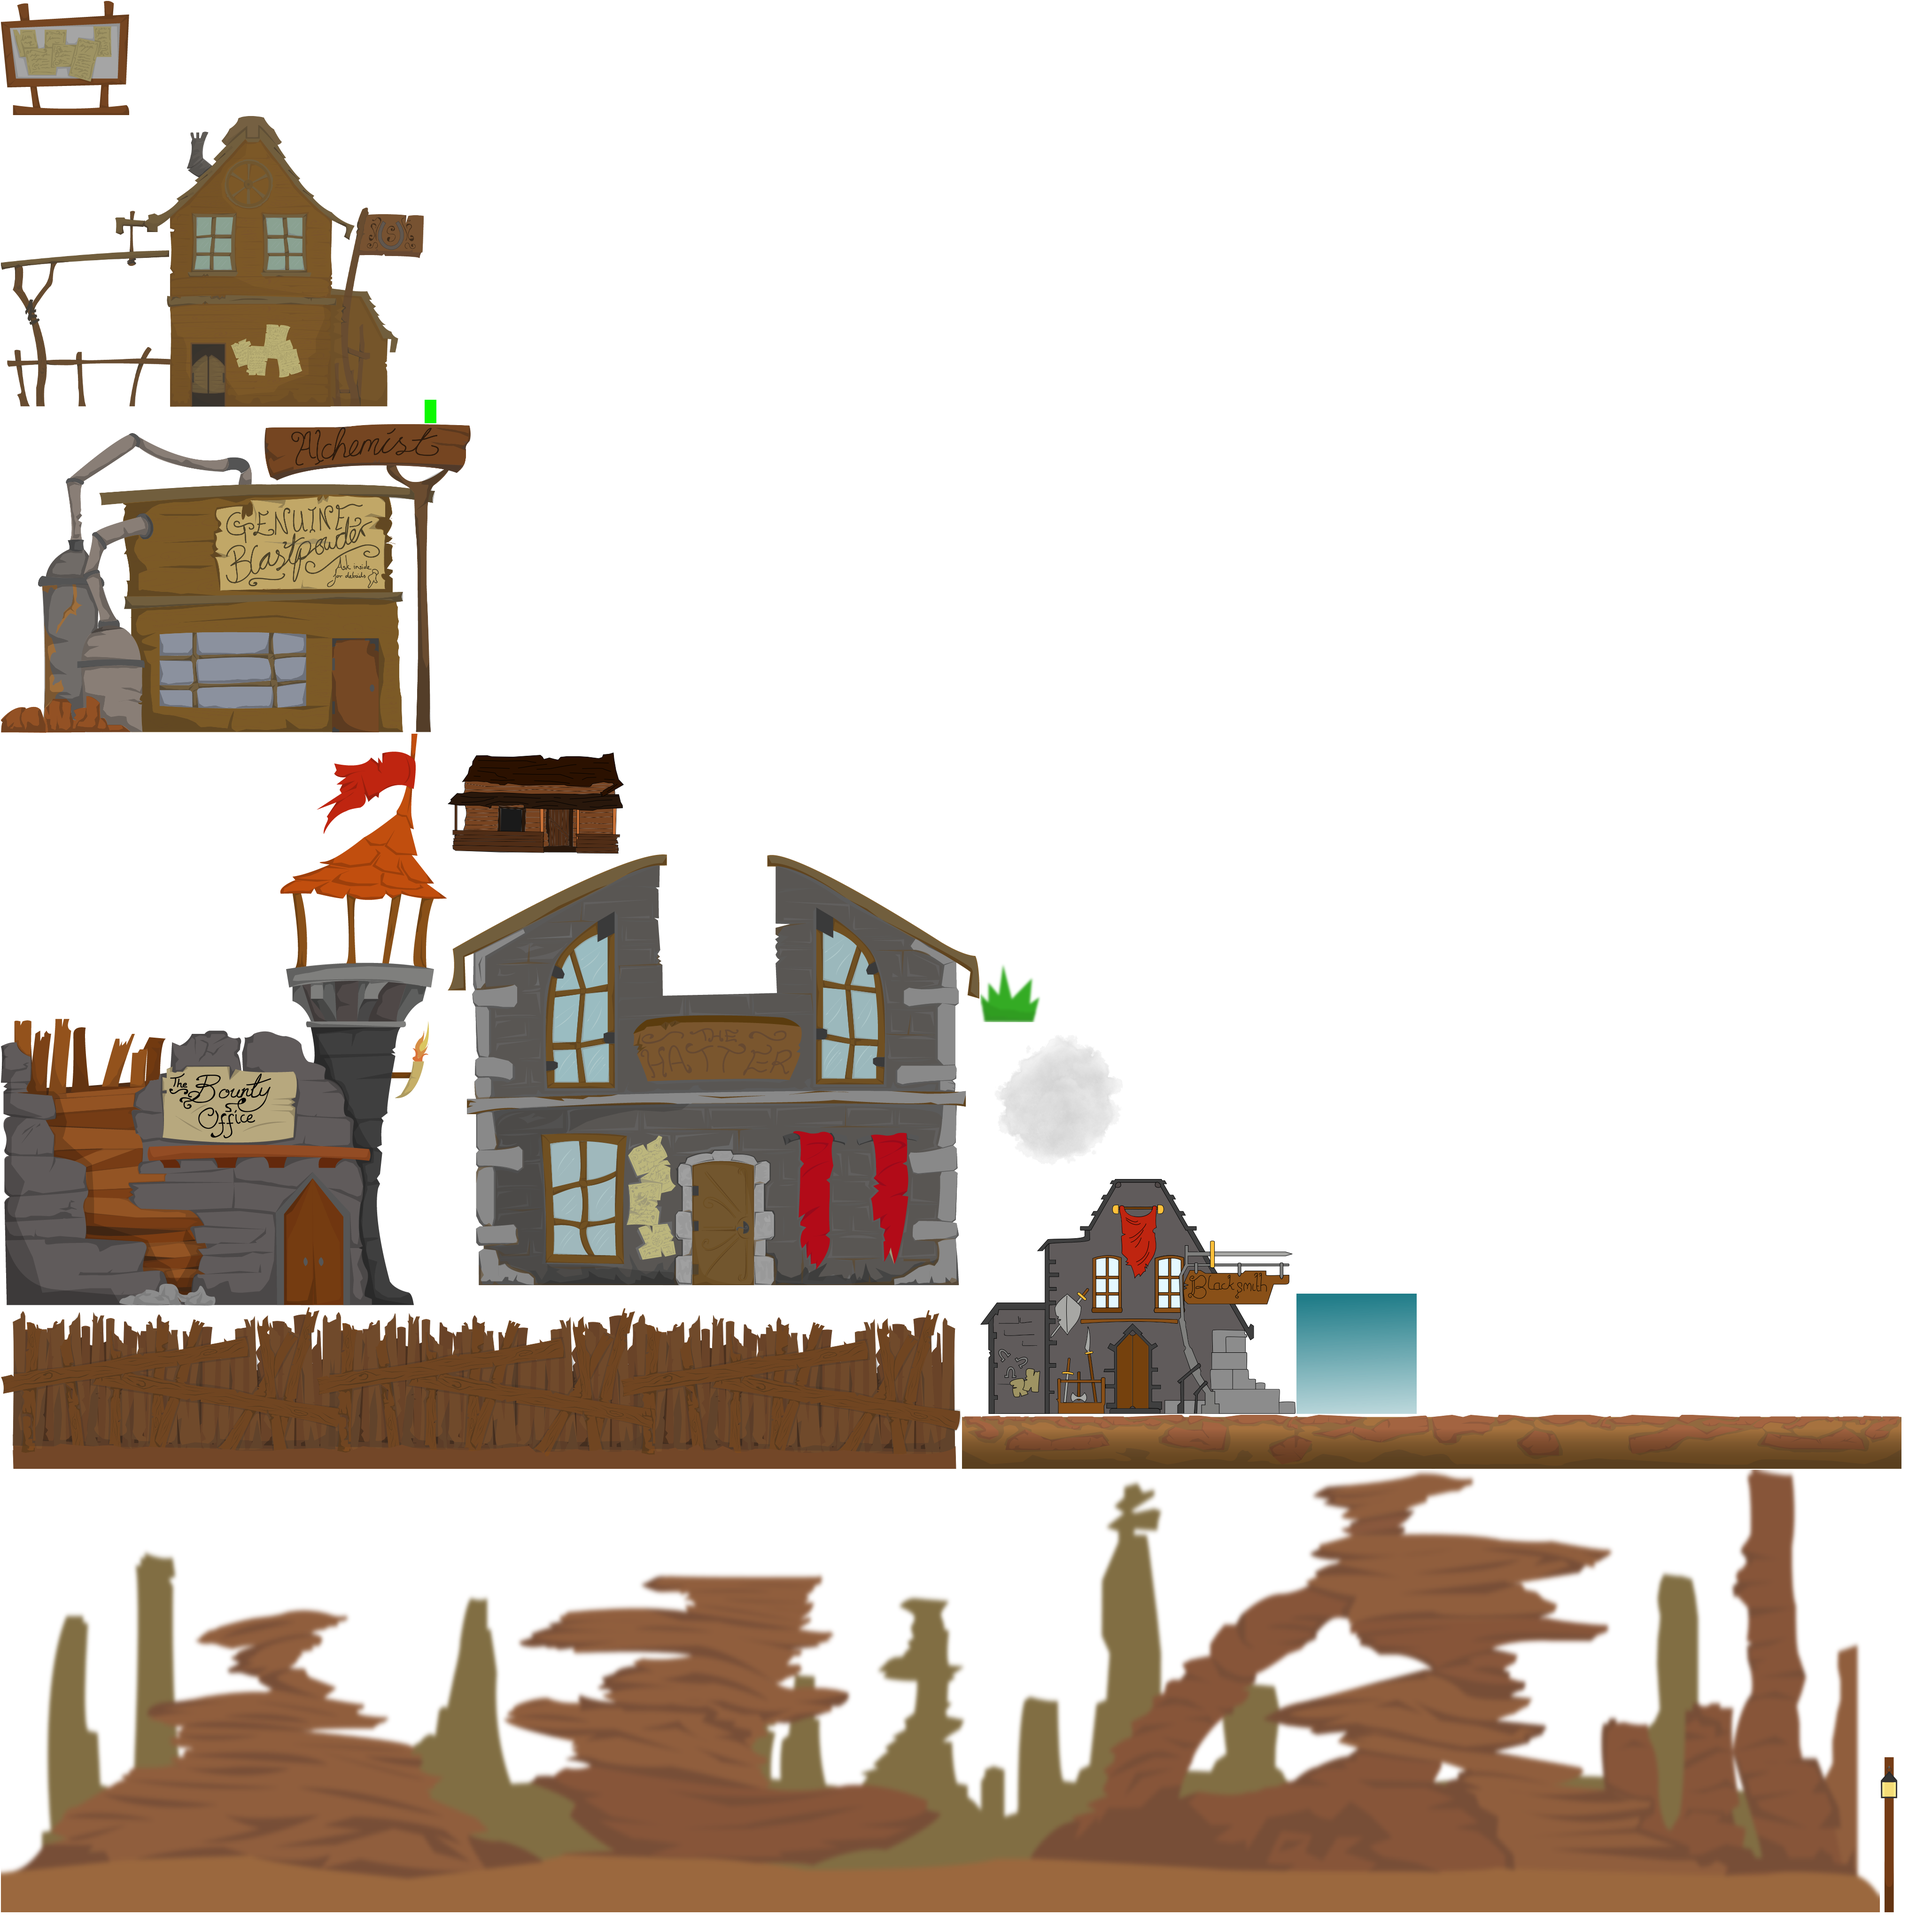
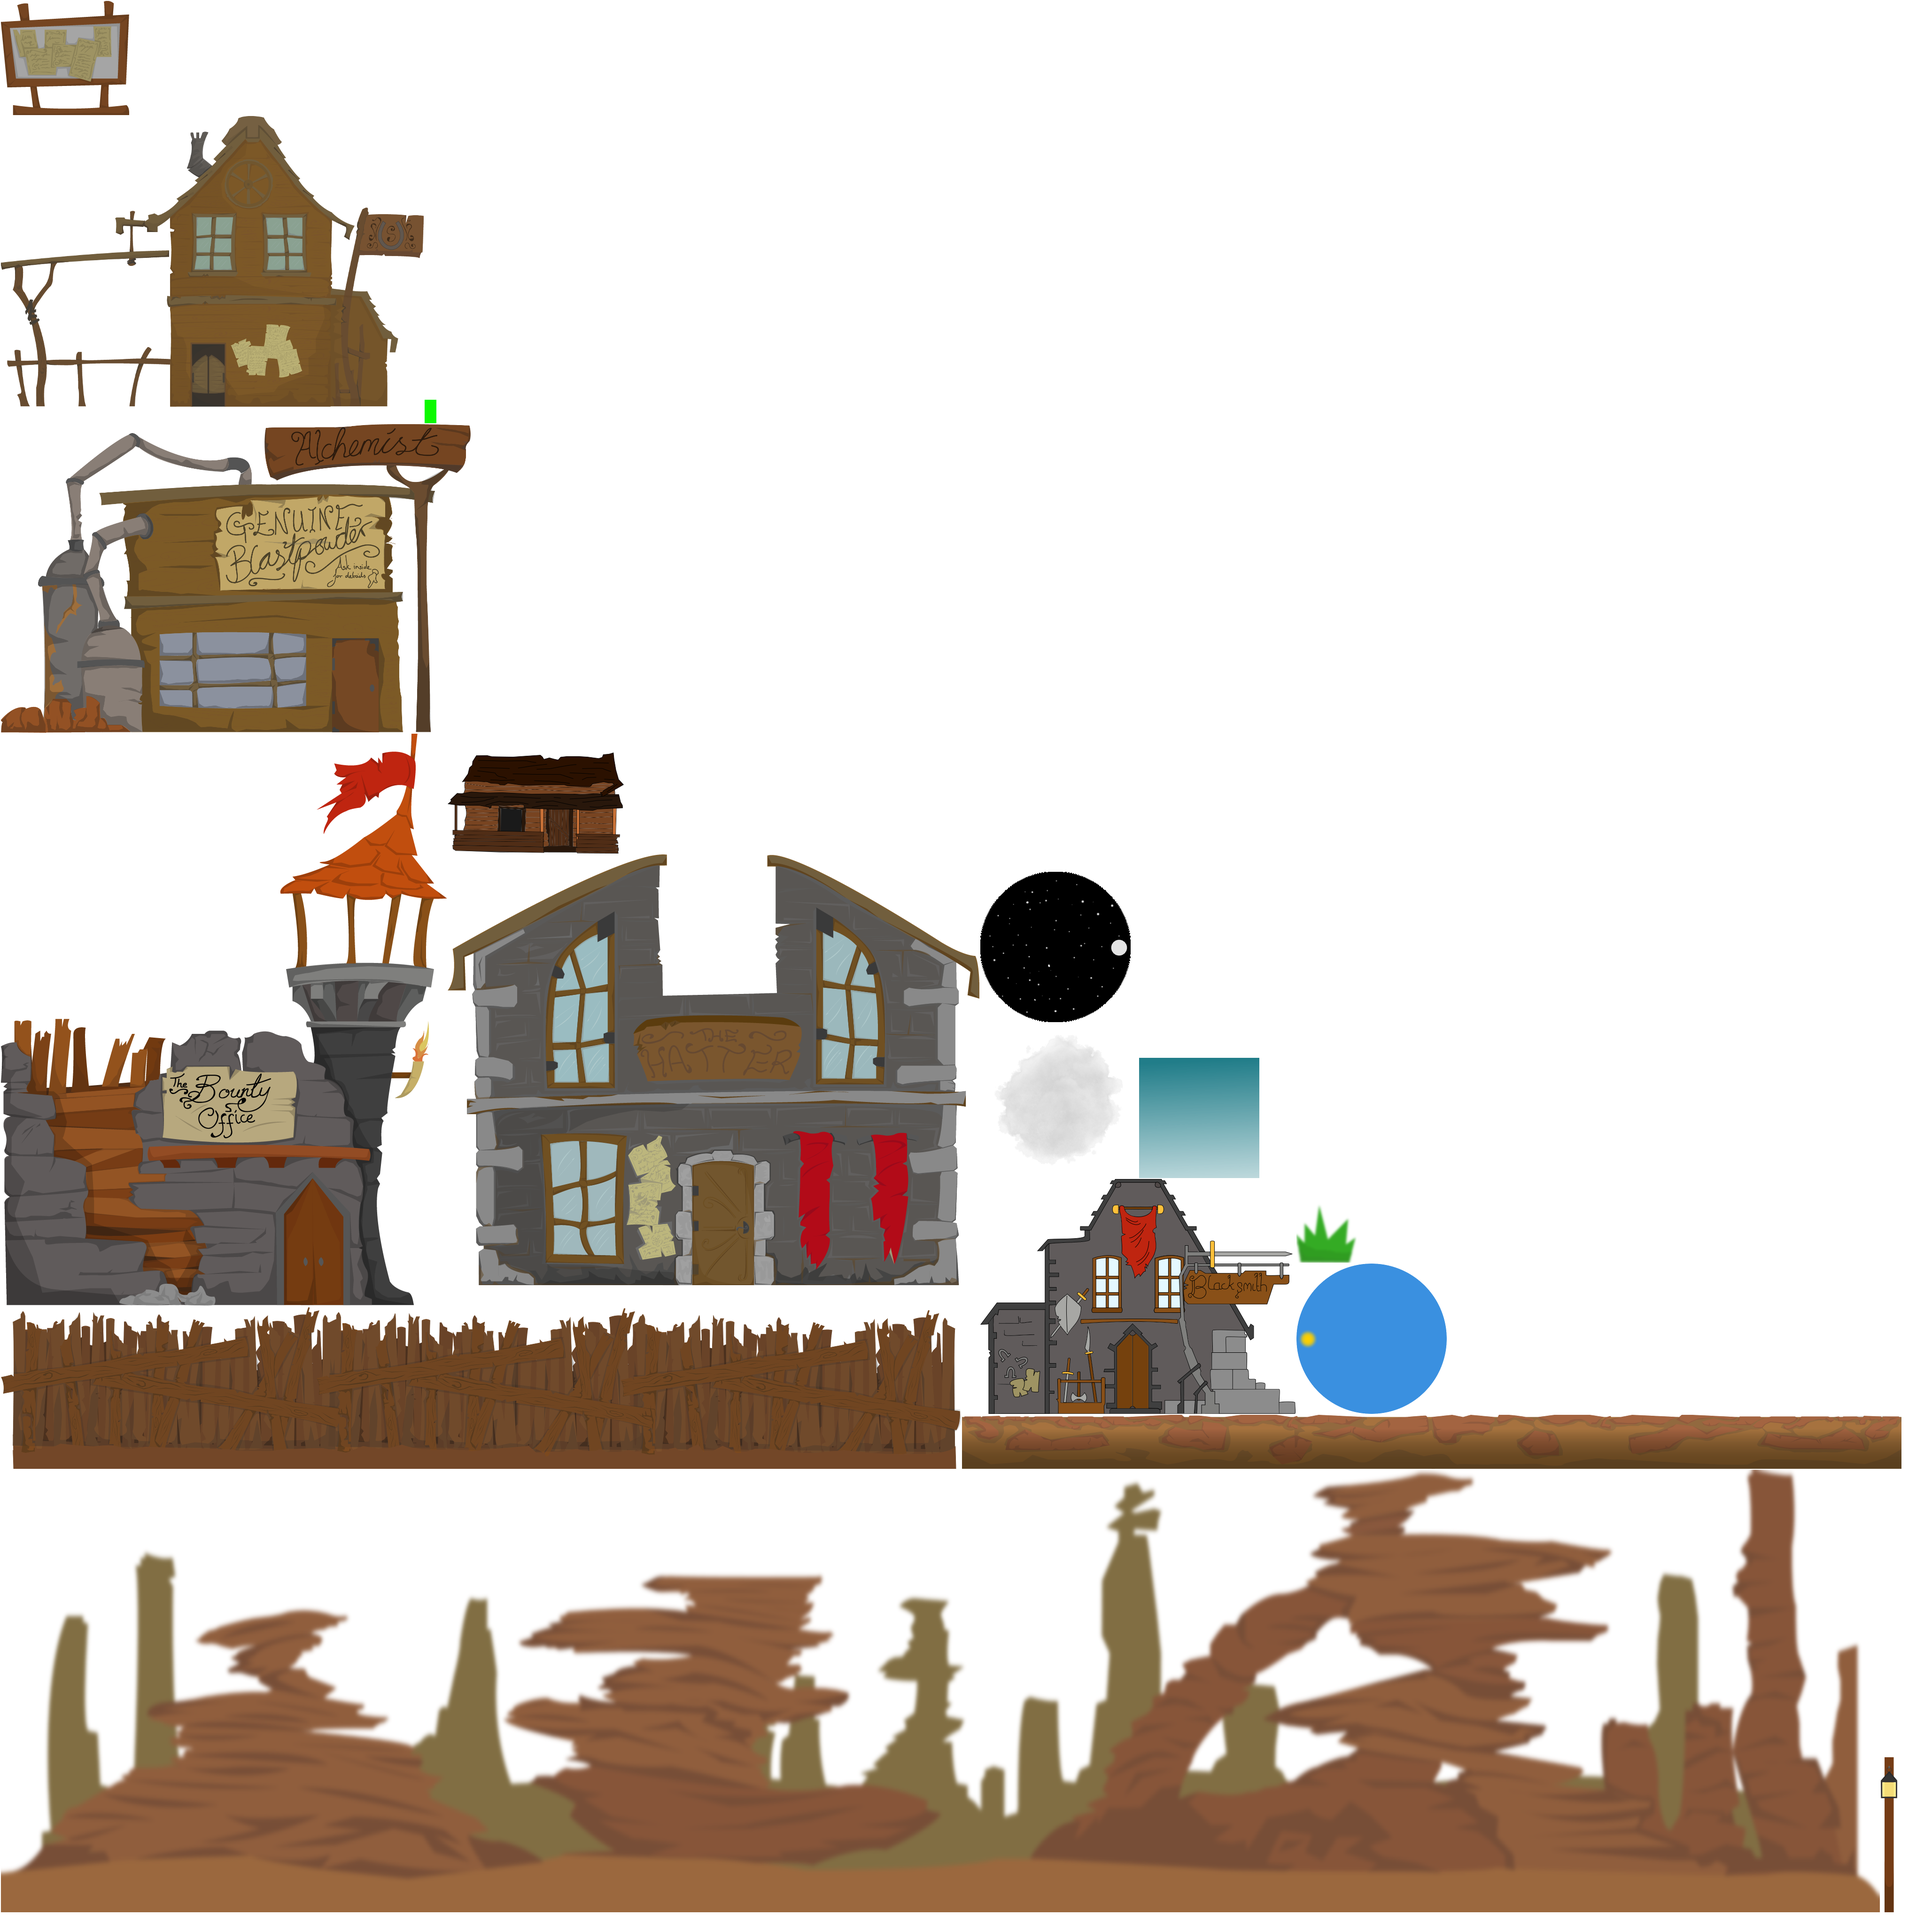
Added day and night cycle

Changed region(s): [[0.6562, 0.625, 0.75, 0.75], [0.5, 0.4375, 0.5938, 0.5312], [0.5938, 0.5312, 0.6562, 0.625]]

diff --git a/core/src/com/djammr/westernknights/entity/systems/DaySystem.java b/core/src/com/djammr/westernknights/entity/systems/DaySystem.java
@@ -1,0 +1,109 @@
+package com.djammr.westernknights.entity.systems;
+
+import box2dLight.RayHandler;
+import com.badlogic.ashley.core.ComponentMapper;
+import com.badlogic.ashley.core.Entity;
+import com.badlogic.ashley.core.EntitySystem;
+import com.badlogic.ashley.core.Family;
+import com.badlogic.ashley.systems.IteratingSystem;
+import com.badlogic.gdx.Gdx;
+import com.djammr.westernknights.WKGame;
+import com.djammr.westernknights.WKWorld;
+import com.djammr.westernknights.entity.components.MessagingComponent;
+import com.djammr.westernknights.entity.components.TransformComponent;
+import com.djammr.westernknights.entity.components.VisualComponent;
+import com.djammr.westernknights.util.observers.Observer;
+
+/**
+ * Manages day and night cycle
+ */
+public class DaySystem extends EntitySystem {
+
+    private float skyDayAlpha = 1;
+    private double alpha;
+    private double gameTime = 0;
+    private int speed = 256;
+    private boolean toDay = false; // Transition: to day=1, to night=0
+    private Entity skyboxDay;
+    private Entity skyboxNight;
+    private RayHandler rayHandler;
+
+    private ComponentMapper<TransformComponent> transm = ComponentMapper.getFor(TransformComponent.class);
+    private ComponentMapper<VisualComponent> vism = ComponentMapper.getFor(VisualComponent.class);
+    private TransformComponent day_transc;
+    private TransformComponent night_transc;
+    private VisualComponent day_visc;
+    private VisualComponent night_visc;
+
+
+    public DaySystem() {
+    }
+
+    @Override
+    public void update(float deltaTime) {
+        double gameTimeStep = deltaTime / speed;
+        if (!toDay) gameTime += gameTimeStep;
+        else gameTime -= gameTimeStep;
+
+        // Rotation
+        //sun.setDirection(-(360 * gameTime));
+        //day_transc.rotation = (toDay)? 360 * (float)gameTime : -360 * (float)gameTime;
+        //night_transc.rotation = (toDay)? 360 * (float)gameTime : -360 * (float)gameTime;
+        double rotationStep = 180 * gameTimeStep;
+        day_transc.rotation -= rotationStep;
+        night_transc.rotation -= rotationStep;
+        if (day_transc.rotation >= 360) day_transc.rotation = 0;
+        if (night_transc.rotation >= 360) night_transc.rotation = 0;
+        if (gameTime <= 0 && toDay) toDay = false;
+        else if (gameTime >= 1 && !toDay) toDay = true;
+
+
+        // Skybox Fading
+        /*if (skyDayAlpha < 0) skyDayAlpha = 0;
+        if (skyDayAlpha > 1) skyDayAlpha = 1;
+        if (gameTime >= 0.4f && gameTime < 0.85f && skyDayAlpha > 0) {
+            day_visc.sprite.setAlpha((skyDayAlpha > 0 + Gdx.graphics.getDeltaTime())? skyDayAlpha -= Gdx.graphics.getDeltaTime() : 0);
+            //WKGame.logger.logDebug("to night");
+        } else if (gameTime >= 0.85f && skyDayAlpha < 1) {
+            //WKGame.logger.logDebug("to day");
+            day_visc.sprite.setAlpha((skyDayAlpha < 1f - Gdx.graphics.getDeltaTime())? skyDayAlpha += Gdx.graphics.getDeltaTime() : 1);
+        }*/
+        skyDayAlpha = 1 - (float)gameTime;
+        if (skyDayAlpha < 0) skyDayAlpha = 0;
+        if (skyDayAlpha > 1) skyDayAlpha = 1;
+        day_visc.sprite.setAlpha(skyDayAlpha);
+
+
+        // Sun alpha
+        alpha = 1 - gameTime;
+        if (alpha < WKWorld.AMBIENT_ALPHA_NIGHT) alpha = WKWorld.AMBIENT_ALPHA_NIGHT;
+        else if (alpha > WKWorld.AMBIENT_ALPHA_DAY) alpha = WKWorld.AMBIENT_ALPHA_DAY;
+        //if (alpha >= WKWorld.AMBIENT_ALPHA_DAY && toDay) toDay = false;
+        //else if (alpha <= WKWorld.AMBIENT_ALPHA_NIGHT && !toDay) toDay = true;
+        if (rayHandler != null) rayHandler.setAmbientLight(WKWorld.AMBIENT_COLOUR.r, WKWorld.AMBIENT_COLOUR.g, WKWorld.AMBIENT_COLOUR.b, (float)alpha);
+    }
+
+    public void setRayHandler(RayHandler rayHandler) {
+        this.rayHandler = rayHandler;
+    }
+
+    public void setSkyBoxes(Entity skyboxDay, Entity skyboxNight) {
+        this.skyboxDay = skyboxDay;
+        this.skyboxNight = skyboxNight;
+
+        day_transc = transm.get(skyboxDay);
+        night_transc = transm.get(skyboxNight);
+        day_visc = vism.get(skyboxDay);
+        night_visc = vism.get(skyboxNight);
+
+        day_transc.x += day_visc.sprite.getWidth()/2 * day_visc.sprite.getScaleX();
+        day_transc.y += day_visc.sprite.getHeight()/2 * day_visc.sprite.getScaleY();
+        day_visc.sprite.setOriginCenter();
+        day_visc.sprite.setPosition(day_transc.x, day_transc.y);
+
+        night_transc.x += night_visc.sprite.getWidth()/2 * night_visc.sprite.getScaleX();
+        night_transc.y += night_visc.sprite.getHeight()/2 * night_visc.sprite.getScaleX();
+        night_visc.sprite.setOriginCenter();
+        night_visc.sprite.setPosition(night_transc.x, night_transc.y);
+    }
+}

diff --git a/core/src/com/djammr/westernknights/WKWorld.java b/core/src/com/djammr/westernknights/WKWorld.java
@@ -19,6 +19,8 @@ public abstract class WKWorld {
     public static final float PLAYER_HEIGHT = 1.8f;
     public static final String PLAYER_IDENTIFIER = "player";
     public static final String GROUND_IDENTIFIER = "ground";
+    public static final String SKYBOX_DAY_IDENTIFIER = "skybox_day";
+    public static final String SKYBOX_NIGHT_IDENTIFIER = "skybox_night";
     public static final String NPC_TYPE = "npc";
     public static final String ENEMY_TYPE = "enemy";
     public static final String NODE_TYPE = "node";
@@ -47,6 +49,7 @@ public abstract class WKWorld {
             entities.getEngine().addSystem(new BehaviourSystem());
             entities.getEngine().addSystem(new AnimationSystem());
             entities.getEngine().addSystem(new ParallaxSystem());
+            entities.getEngine().addSystem(new DaySystem());
             entities.getEngine().addSystem(new VisualSystem());
             entities.getEngine().addSystem(new RenderingSystem());
             entities.getEngine().addSystem(new Box2DSystem());
@@ -54,6 +57,7 @@ public abstract class WKWorld {
             entities.getEngine().getSystem(RenderingSystem.class).setCamera(entities.getEngine().getSystem(CameraSystem.class).getCamera());
             entities.getEngine().getSystem(Box2DSystem.class).setCamera(entities.getEngine().getSystem(CameraSystem.class).getCamera());
             entities.getEngine().getSystem(ParallaxSystem.class).setCamera(entities.getEngine().getSystem(CameraSystem.class).getCamera());
+            entities.getEngine().getSystem(DaySystem.class).setRayHandler(entities.getEngine().getSystem(Box2DSystem.class).getRayHandler());
 
             // load subclass
             load();

diff --git a/core/src/com/djammr/westernknights/levels/TradingHub.java b/core/src/com/djammr/westernknights/levels/TradingHub.java
@@ -6,6 +6,7 @@ import com.djammr.westernknights.Assets;
 import com.djammr.westernknights.WKWorld;
 import com.djammr.westernknights.entity.components.Box2DComponent;
 import com.djammr.westernknights.entity.systems.CameraSystem;
+import com.djammr.westernknights.entity.systems.DaySystem;
 import com.djammr.westernknights.entity.systems.InputSystem;
 import com.djammr.westernknights.util.assetloaders.Overlap2DMapLoader;
 import com.djammr.westernknights.util.assetloaders.settings.Overlap2DMapSettings;
@@ -37,6 +38,8 @@ public class TradingHub extends WKWorld {
                         getEntities().getEntity(WKWorld.GROUND_IDENTIFIER).getComponent(Box2DComponent.class).body.getPosition().x,
                         getEntities().getEntity("border_right").getComponent(Box2DComponent.class).body.getPosition().x,
                         0f, null);
+                getEntities().getEngine().getSystem(DaySystem.class).setSkyBoxes(getEntities().getEntity(WKWorld.SKYBOX_DAY_IDENTIFIER),
+                                                                                 getEntities().getEntity(WKWorld.SKYBOX_NIGHT_IDENTIFIER));
             }
         };
 

diff --git a/core/src/com/djammr/westernknights/entity/systems/VisualSystem.java b/core/src/com/djammr/westernknights/entity/systems/VisualSystem.java
@@ -54,12 +54,12 @@ public class VisualSystem extends IteratingSystem {
             }
         }
         else if (transc != null) {
-            visc.sprite.setPosition(transc.x, transc.y);
             visc.sprite.setRotation(transc.rotation);
+            visc.sprite.setPosition(transc.x, transc.y);
             // Spriter
             if (sprtc != null) {
-                sprtc.player.setPosition(transc.x, transc.y);
                 sprtc.player.rotate(transc.rotation);
+                sprtc.player.setPosition(transc.x, transc.y);
             }
         }
     }
